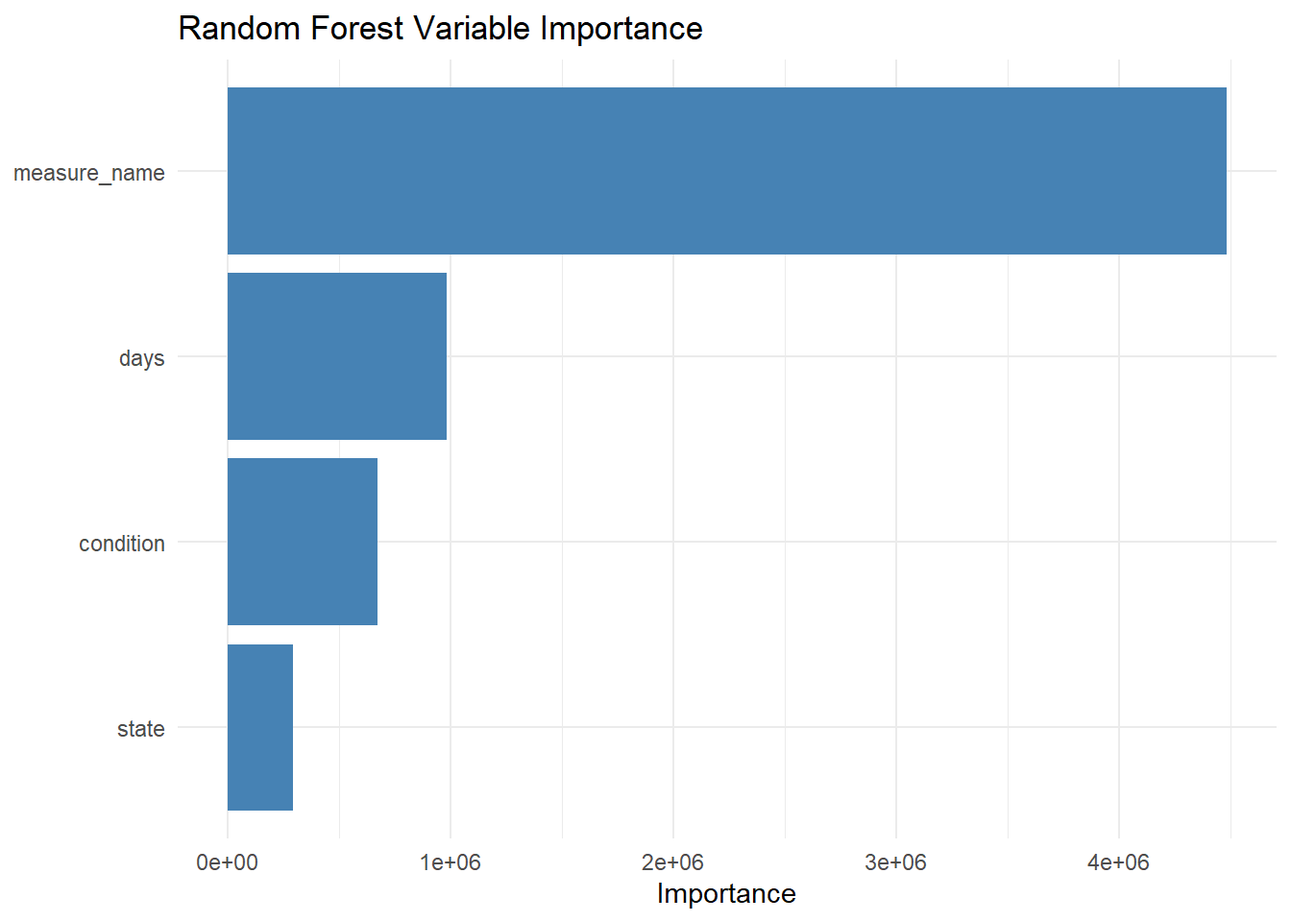
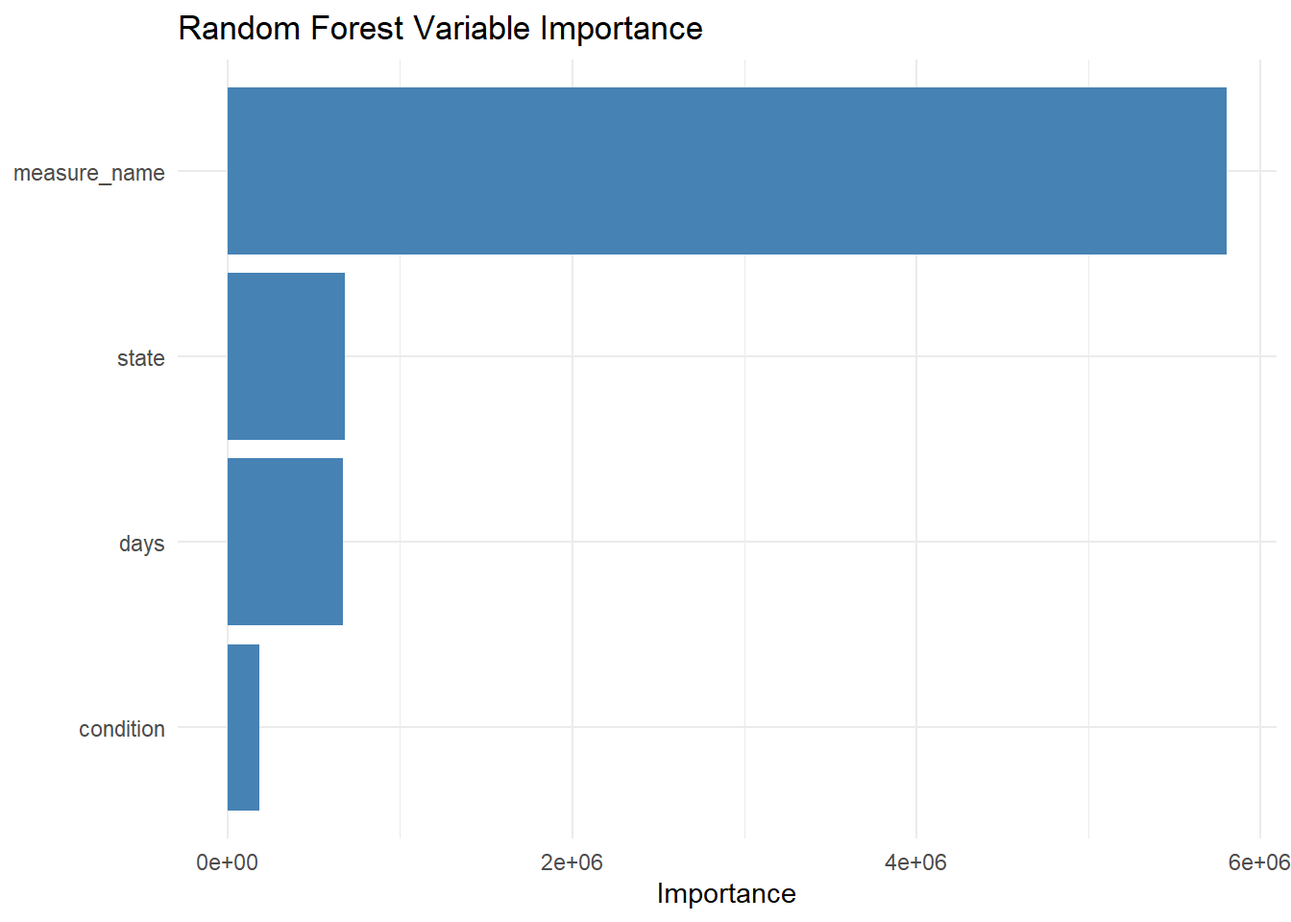
description

diff --git a/docs/tidytuesday-exercise/tidytuesday-exercise.html b/docs/tidytuesday-exercise/tidytuesday-exercise.html
@@ -268,10 +268,11 @@ date (2): start_date, end_date
 <h1 data-number="3"><span class="header-section-number">3</span> Exploratory Data Analysis</h1>
 <p>The dates look interesting, we might be able to use the duration from start to end as an information in our research. We will first look if there are multiple start dates and end dates or if all the dates are same.</p>
 <div class="cell">
-<div class="sourceCode cell-code" id="cb11"><pre class="sourceCode r code-with-copy"><code class="sourceCode r"><span id="cb11-1"><a href="#cb11-1" aria-hidden="true" tabindex="-1"></a>care_state <span class="sc">%&gt;%</span></span>
-<span id="cb11-2"><a href="#cb11-2" aria-hidden="true" tabindex="-1"></a>  <span class="fu">count</span>(start_date, <span class="at">name =</span> <span class="st">"frequency"</span>) <span class="sc">%&gt;%</span></span>
-<span id="cb11-3"><a href="#cb11-3" aria-hidden="true" tabindex="-1"></a>  <span class="fu">arrange</span>(<span class="fu">desc</span>(frequency)) <span class="sc">%&gt;%</span>  <span class="co"># Sort by most frequent</span></span>
-<span id="cb11-4"><a href="#cb11-4" aria-hidden="true" tabindex="-1"></a>  <span class="fu">print</span>(<span class="at">n =</span> <span class="cn">Inf</span>)  <span class="co"># Show all rows</span></span></code><button title="Copy to Clipboard" class="code-copy-button"><i class="bi"></i></button></pre></div>
+<div class="sourceCode cell-code" id="cb11"><pre class="sourceCode r code-with-copy"><code class="sourceCode r"><span id="cb11-1"><a href="#cb11-1" aria-hidden="true" tabindex="-1"></a><span class="co">#counting the occurrences of each start_date</span></span>
+<span id="cb11-2"><a href="#cb11-2" aria-hidden="true" tabindex="-1"></a>care_state <span class="sc">%&gt;%</span></span>
+<span id="cb11-3"><a href="#cb11-3" aria-hidden="true" tabindex="-1"></a>  <span class="fu">count</span>(start_date, <span class="at">name =</span> <span class="st">"frequency"</span>) <span class="sc">%&gt;%</span></span>
+<span id="cb11-4"><a href="#cb11-4" aria-hidden="true" tabindex="-1"></a>  <span class="fu">arrange</span>(<span class="fu">desc</span>(frequency)) <span class="sc">%&gt;%</span>  <span class="co"># sorting by most frequent</span></span>
+<span id="cb11-5"><a href="#cb11-5" aria-hidden="true" tabindex="-1"></a>  <span class="fu">print</span>(<span class="at">n =</span> <span class="cn">Inf</span>)  <span class="co">#showing all rows</span></span></code><button title="Copy to Clipboard" class="code-copy-button"><i class="bi"></i></button></pre></div>
 <div class="cell-output cell-output-stdout">
 <pre><code># A tibble: 4 × 2
   start_date frequency
@@ -282,13 +283,13 @@ date (2): start_date, end_date
 4 2024-01-01        56</code></pre>
 </div>
 </div>
-<p>We can observe that there are only four start dates.</p>
+<p>We can observe that there are only four start dates although some of them have very high frequency and some of them have a low frequency.</p>
 <div class="cell">
-<div class="sourceCode cell-code" id="cb13"><pre class="sourceCode r code-with-copy"><code class="sourceCode r"><span id="cb13-1"><a href="#cb13-1" aria-hidden="true" tabindex="-1"></a><span class="co"># Count occurrences of each end_date</span></span>
+<div class="sourceCode cell-code" id="cb13"><pre class="sourceCode r code-with-copy"><code class="sourceCode r"><span id="cb13-1"><a href="#cb13-1" aria-hidden="true" tabindex="-1"></a><span class="co">#counting the occurrences of each end_date</span></span>
 <span id="cb13-2"><a href="#cb13-2" aria-hidden="true" tabindex="-1"></a>care_state <span class="sc">%&gt;%</span></span>
 <span id="cb13-3"><a href="#cb13-3" aria-hidden="true" tabindex="-1"></a>  <span class="fu">count</span>(end_date, <span class="at">name =</span> <span class="st">"frequency"</span>) <span class="sc">%&gt;%</span></span>
-<span id="cb13-4"><a href="#cb13-4" aria-hidden="true" tabindex="-1"></a>  <span class="fu">arrange</span>(<span class="fu">desc</span>(frequency)) <span class="sc">%&gt;%</span>  <span class="co"># Sort by most frequent</span></span>
-<span id="cb13-5"><a href="#cb13-5" aria-hidden="true" tabindex="-1"></a>  <span class="fu">print</span>(<span class="at">n =</span> <span class="cn">Inf</span>)  <span class="co"># Show all rows</span></span></code><button title="Copy to Clipboard" class="code-copy-button"><i class="bi"></i></button></pre></div>
+<span id="cb13-4"><a href="#cb13-4" aria-hidden="true" tabindex="-1"></a>  <span class="fu">arrange</span>(<span class="fu">desc</span>(frequency)) <span class="sc">%&gt;%</span>  <span class="co">#sorting by most frequent</span></span>
+<span id="cb13-5"><a href="#cb13-5" aria-hidden="true" tabindex="-1"></a>  <span class="fu">print</span>(<span class="at">n =</span> <span class="cn">Inf</span>)  <span class="co">#showing all rows</span></span></code><button title="Copy to Clipboard" class="code-copy-button"><i class="bi"></i></button></pre></div>
 <div class="cell-output cell-output-stdout">
 <pre><code># A tibble: 2 × 2
   end_date   frequency
@@ -301,7 +302,7 @@ date (2): start_date, end_date
 <p>So there is not much information in this variables for exploration.</p>
 <section id="checking-the-most-frequent-condition-in-each-state" class="level2" data-number="3.1">
 <h2 data-number="3.1" class="anchored" data-anchor-id="checking-the-most-frequent-condition-in-each-state"><span class="header-section-number">3.1</span> Checking the most frequent condition in each state</h2>
-<p>Now we will see which of the condition is most frequent in each of the state.</p>
+<p>Now we will see which of the condition is most frequent in each of the state and if there is a pattern among the states.</p>
 <div class="cell">
 <div class="sourceCode cell-code" id="cb15"><pre class="sourceCode r code-with-copy"><code class="sourceCode r"><span id="cb15-1"><a href="#cb15-1" aria-hidden="true" tabindex="-1"></a><span class="fu">library</span>(tidyverse)</span></code><button title="Copy to Clipboard" class="code-copy-button"><i class="bi"></i></button></pre></div>
 <div class="cell-output cell-output-stderr">
@@ -322,14 +323,14 @@ date (2): start_date, end_date
 <div class="cell-output cell-output-stderr">
 <pre><code>Warning: package 'usmap' was built under R version 4.4.3</code></pre>
 </div>
-<div class="sourceCode cell-code" id="cb20"><pre class="sourceCode r code-with-copy"><code class="sourceCode r"><span id="cb20-1"><a href="#cb20-1" aria-hidden="true" tabindex="-1"></a><span class="co"># 1. Find most frequent condition per state</span></span>
+<div class="sourceCode cell-code" id="cb20"><pre class="sourceCode r code-with-copy"><code class="sourceCode r"><span id="cb20-1"><a href="#cb20-1" aria-hidden="true" tabindex="-1"></a><span class="co">#finding most frequent condition per state</span></span>
 <span id="cb20-2"><a href="#cb20-2" aria-hidden="true" tabindex="-1"></a>top_conditions <span class="ot">&lt;-</span> care_state <span class="sc">%&gt;%</span></span>
 <span id="cb20-3"><a href="#cb20-3" aria-hidden="true" tabindex="-1"></a>  <span class="fu">count</span>(state, condition) <span class="sc">%&gt;%</span></span>
 <span id="cb20-4"><a href="#cb20-4" aria-hidden="true" tabindex="-1"></a>  <span class="fu">group_by</span>(state) <span class="sc">%&gt;%</span></span>
 <span id="cb20-5"><a href="#cb20-5" aria-hidden="true" tabindex="-1"></a>  <span class="fu">slice_max</span>(n, <span class="at">n =</span> <span class="dv">1</span>) <span class="sc">%&gt;%</span></span>
 <span id="cb20-6"><a href="#cb20-6" aria-hidden="true" tabindex="-1"></a>  <span class="fu">ungroup</span>()</span>
 <span id="cb20-7"><a href="#cb20-7" aria-hidden="true" tabindex="-1"></a></span>
-<span id="cb20-8"><a href="#cb20-8" aria-hidden="true" tabindex="-1"></a><span class="co"># 2. Create basic map</span></span>
+<span id="cb20-8"><a href="#cb20-8" aria-hidden="true" tabindex="-1"></a><span class="co">#creating basic map</span></span>
 <span id="cb20-9"><a href="#cb20-9" aria-hidden="true" tabindex="-1"></a><span class="fu">plot_usmap</span>(<span class="at">data =</span> top_conditions, <span class="at">values =</span> <span class="st">"condition"</span>) <span class="sc">+</span></span>
 <span id="cb20-10"><a href="#cb20-10" aria-hidden="true" tabindex="-1"></a>  <span class="fu">scale_fill_brewer</span>(<span class="at">palette =</span> <span class="st">"Set2"</span>, </span>
 <span id="cb20-11"><a href="#cb20-11" aria-hidden="true" tabindex="-1"></a>                   <span class="at">name =</span> <span class="st">"Most Common Condition"</span>,</span>
@@ -350,14 +351,12 @@ date (2): start_date, end_date
 <h2 data-number="3.2" class="anchored" data-anchor-id="checking-the-frequencies-of-different-measures."><span class="header-section-number">3.2</span> Checking the frequencies of different measures.</h2>
 <p>Now, we will observe the freqency of different values under the variable <code>measure_name</code>.</p>
 <div class="cell">
-<div class="sourceCode cell-code" id="cb21"><pre class="sourceCode r code-with-copy"><code class="sourceCode r"><span id="cb21-1"><a href="#cb21-1" aria-hidden="true" tabindex="-1"></a><span class="fu">library</span>(tidyverse)</span>
-<span id="cb21-2"><a href="#cb21-2" aria-hidden="true" tabindex="-1"></a></span>
-<span id="cb21-3"><a href="#cb21-3" aria-hidden="true" tabindex="-1"></a><span class="co">#getting frequency counts for measure_name</span></span>
-<span id="cb21-4"><a href="#cb21-4" aria-hidden="true" tabindex="-1"></a>measure_counts <span class="ot">&lt;-</span> care_state <span class="sc">%&gt;%</span></span>
-<span id="cb21-5"><a href="#cb21-5" aria-hidden="true" tabindex="-1"></a>  <span class="fu">count</span>(measure_name, <span class="at">sort =</span> <span class="cn">TRUE</span>)  <span class="co"># sorting by most frequent</span></span>
-<span id="cb21-6"><a href="#cb21-6" aria-hidden="true" tabindex="-1"></a></span>
-<span id="cb21-7"><a href="#cb21-7" aria-hidden="true" tabindex="-1"></a><span class="co">#showing the full table</span></span>
-<span id="cb21-8"><a href="#cb21-8" aria-hidden="true" tabindex="-1"></a><span class="fu">print</span>(measure_counts, <span class="at">n =</span> <span class="cn">Inf</span>)  <span class="co">#n= all rows</span></span></code><button title="Copy to Clipboard" class="code-copy-button"><i class="bi"></i></button></pre></div>
+<div class="sourceCode cell-code" id="cb21"><pre class="sourceCode r code-with-copy"><code class="sourceCode r"><span id="cb21-1"><a href="#cb21-1" aria-hidden="true" tabindex="-1"></a><span class="co">#getting frequency counts for measure_name</span></span>
+<span id="cb21-2"><a href="#cb21-2" aria-hidden="true" tabindex="-1"></a>measure_counts <span class="ot">&lt;-</span> care_state <span class="sc">%&gt;%</span></span>
+<span id="cb21-3"><a href="#cb21-3" aria-hidden="true" tabindex="-1"></a>  <span class="fu">count</span>(measure_name, <span class="at">sort =</span> <span class="cn">TRUE</span>)  <span class="co">#sorting by most frequent</span></span>
+<span id="cb21-4"><a href="#cb21-4" aria-hidden="true" tabindex="-1"></a></span>
+<span id="cb21-5"><a href="#cb21-5" aria-hidden="true" tabindex="-1"></a><span class="co">#showing the full table</span></span>
+<span id="cb21-6"><a href="#cb21-6" aria-hidden="true" tabindex="-1"></a><span class="fu">print</span>(measure_counts, <span class="at">n =</span> <span class="cn">Inf</span>)  <span class="co">#n= all rows</span></span></code><button title="Copy to Clipboard" class="code-copy-button"><i class="bi"></i></button></pre></div>
 <div class="cell-output cell-output-stdout">
 <pre><code># A tibble: 21 × 2
    measure_name                                                                n
@@ -435,7 +434,7 @@ date (2): start_date, end_date
 </div>
 </div>
 </div>
-<p>We can observe that there is variation across states.</p>
+<p>We can observe that there is variation across states with central US states showing a low time spent in emergency department before being sent home.</p>
 </section>
 <section id="influenza-vaccination-rates-among-healthcare-workers-across-states." class="level2" data-number="3.4">
 <h2 data-number="3.4" class="anchored" data-anchor-id="influenza-vaccination-rates-among-healthcare-workers-across-states."><span class="header-section-number">3.4</span> Influenza Vaccination Rates Among Healthcare Workers across states.</h2>
@@ -459,7 +458,7 @@ date (2): start_date, end_date
 <span id="cb25-17"><a href="#cb25-17" aria-hidden="true" tabindex="-1"></a>    <span class="at">palette =</span> <span class="st">"Spectral"</span>,</span>
 <span id="cb25-18"><a href="#cb25-18" aria-hidden="true" tabindex="-1"></a>    <span class="at">direction =</span> <span class="sc">-</span><span class="dv">1</span>,  <span class="co"># Red = low, Green = high</span></span>
 <span id="cb25-19"><a href="#cb25-19" aria-hidden="true" tabindex="-1"></a>    <span class="at">na.value =</span> <span class="st">"grey90"</span>,</span>
-<span id="cb25-20"><a href="#cb25-20" aria-hidden="true" tabindex="-1"></a>    <span class="at">limits =</span> <span class="fu">c</span>(<span class="dv">0</span>, <span class="dv">100</span>)  <span class="co"># Force 0-100% scale</span></span>
+<span id="cb25-20"><a href="#cb25-20" aria-hidden="true" tabindex="-1"></a>    <span class="at">limits =</span> <span class="fu">c</span>(<span class="dv">0</span>, <span class="dv">100</span>)  <span class="co"># 0-100% scale</span></span>
 <span id="cb25-21"><a href="#cb25-21" aria-hidden="true" tabindex="-1"></a>  ) <span class="sc">+</span></span>
 <span id="cb25-22"><a href="#cb25-22" aria-hidden="true" tabindex="-1"></a>  <span class="fu">labs</span>(<span class="at">title =</span> <span class="st">"Influenza Vaccination Rates Among Healthcare Workers"</span>,</span>
 <span id="cb25-23"><a href="#cb25-23" aria-hidden="true" tabindex="-1"></a>       <span class="at">subtitle =</span> <span class="st">"Higher percentages indicate better coverage"</span>) <span class="sc">+</span></span>
@@ -482,19 +481,21 @@ date (2): start_date, end_date
 <div class="sourceCode cell-code" id="cb26"><pre class="sourceCode r code-with-copy"><code class="sourceCode r"><span id="cb26-1"><a href="#cb26-1" aria-hidden="true" tabindex="-1"></a>care_state <span class="ot">&lt;-</span> care_state <span class="sc">%&gt;%</span></span>
 <span id="cb26-2"><a href="#cb26-2" aria-hidden="true" tabindex="-1"></a>  <span class="fu">mutate</span>(<span class="at">days =</span> <span class="fu">as.numeric</span>(end_date <span class="sc">-</span> start_date))</span></code><button title="Copy to Clipboard" class="code-copy-button"><i class="bi"></i></button></pre></div>
 </div>
+<p>We have now created the dataset.</p>
+<p>Now, we will prepare the dataset for our analysis</p>
 <div class="cell">
 <div class="sourceCode cell-code" id="cb27"><pre class="sourceCode r code-with-copy"><code class="sourceCode r"><span id="cb27-1"><a href="#cb27-1" aria-hidden="true" tabindex="-1"></a><span class="co">#preparing the modeling dataset</span></span>
 <span id="cb27-2"><a href="#cb27-2" aria-hidden="true" tabindex="-1"></a>data <span class="ot">&lt;-</span> care_state <span class="sc">%&gt;%</span></span>
 <span id="cb27-3"><a href="#cb27-3" aria-hidden="true" tabindex="-1"></a>  <span class="fu">select</span>(score, days, state, condition, measure_name) <span class="sc">%&gt;%</span></span>
 <span id="cb27-4"><a href="#cb27-4" aria-hidden="true" tabindex="-1"></a>  <span class="fu">mutate</span>(</span>
-<span id="cb27-5"><a href="#cb27-5" aria-hidden="true" tabindex="-1"></a>    <span class="at">days =</span> <span class="fu">as.numeric</span>(days),  <span class="co"># Ensure numeric</span></span>
+<span id="cb27-5"><a href="#cb27-5" aria-hidden="true" tabindex="-1"></a>    <span class="at">days =</span> <span class="fu">as.numeric</span>(days),  <span class="co"># numeric</span></span>
 <span id="cb27-6"><a href="#cb27-6" aria-hidden="true" tabindex="-1"></a>    <span class="fu">across</span>(<span class="fu">c</span>(state, condition, measure_name), as.factor)  <span class="co">#converting categoricals to factors</span></span>
 <span id="cb27-7"><a href="#cb27-7" aria-hidden="true" tabindex="-1"></a>  ) <span class="sc">%&gt;%</span></span>
 <span id="cb27-8"><a href="#cb27-8" aria-hidden="true" tabindex="-1"></a>  <span class="fu">drop_na</span>()  <span class="co">#removing rows with missing values</span></span></code><button title="Copy to Clipboard" class="code-copy-button"><i class="bi"></i></button></pre></div>
 </div>
 <p>Splitting the data into train/train.</p>
 <div class="cell">
-<div class="sourceCode cell-code" id="cb28"><pre class="sourceCode r code-with-copy"><code class="sourceCode r"><span id="cb28-1"><a href="#cb28-1" aria-hidden="true" tabindex="-1"></a><span class="fu">library</span>(tidymodels)  <span class="co"># rsample for splitting</span></span></code><button title="Copy to Clipboard" class="code-copy-button"><i class="bi"></i></button></pre></div>
+<div class="sourceCode cell-code" id="cb28"><pre class="sourceCode r code-with-copy"><code class="sourceCode r"><span id="cb28-1"><a href="#cb28-1" aria-hidden="true" tabindex="-1"></a><span class="fu">library</span>(tidymodels)  <span class="co">#rsample for splitting</span></span></code><button title="Copy to Clipboard" class="code-copy-button"><i class="bi"></i></button></pre></div>
 <div class="cell-output cell-output-stderr">
 <pre><code>── Attaching packages ────────────────────────────────────── tidymodels 1.2.0 ──</code></pre>
 </div>
@@ -514,10 +515,10 @@ date (2): start_date, end_date
 ✖ dplyr::lag()      masks stats::lag()
 ✖ yardstick::spec() masks readr::spec()
 ✖ recipes::step()   masks stats::step()
-• Use tidymodels_prefer() to resolve common conflicts.</code></pre>
+• Learn how to get started at https://www.tidymodels.org/start/</code></pre>
 </div>
 <div class="sourceCode cell-code" id="cb32"><pre class="sourceCode r code-with-copy"><code class="sourceCode r"><span id="cb32-1"><a href="#cb32-1" aria-hidden="true" tabindex="-1"></a><span class="co">#performing the 75/25 split</span></span>
-<span id="cb32-2"><a href="#cb32-2" aria-hidden="true" tabindex="-1"></a><span class="fu">set.seed</span>(<span class="dv">123</span>)  <span class="co"># For reproducibility</span></span>
+<span id="cb32-2"><a href="#cb32-2" aria-hidden="true" tabindex="-1"></a><span class="fu">set.seed</span>(<span class="dv">123</span>)  <span class="co">#for reproducibility</span></span>
 <span id="cb32-3"><a href="#cb32-3" aria-hidden="true" tabindex="-1"></a>data_split <span class="ot">&lt;-</span> <span class="fu">initial_split</span>(data, <span class="at">prop =</span> <span class="dv">3</span><span class="sc">/</span><span class="dv">4</span>)</span>
 <span id="cb32-4"><a href="#cb32-4" aria-hidden="true" tabindex="-1"></a></span>
 <span id="cb32-5"><a href="#cb32-5" aria-hidden="true" tabindex="-1"></a><span class="co">#creating the training and train sets</span></span>
@@ -527,6 +528,7 @@ date (2): start_date, end_date
 <p>We will now use “days”, “state”, “condition”, “measure_name” to predict the “score”. We will use “Regression”, “Lasso” and “Random Forest” models in the next sections.</p>
 <section id="regression" class="level2" data-number="4.1">
 <h2 data-number="4.1" class="anchored" data-anchor-id="regression"><span class="header-section-number">4.1</span> Regression</h2>
+<p>In this setion, we will perform a linear reression analysis. Although it is not a good idea to use variables with too many categories, but in this dataset the variables are too complex to categorize into smaller groups, so will proceed as it is.</p>
 <div class="cell">
 <div class="sourceCode cell-code" id="cb33"><pre class="sourceCode r code-with-copy"><code class="sourceCode r"><span id="cb33-1"><a href="#cb33-1" aria-hidden="true" tabindex="-1"></a><span class="fu">library</span>(tidymodels)</span>
 <span id="cb33-2"><a href="#cb33-2" aria-hidden="true" tabindex="-1"></a></span>
@@ -593,9 +595,13 @@ rankdeficient="NA")</code></pre>
 </div>
 </div>
 </div>
+<p>We can observe that the RMSE value is 34.9 and the adjusted-R-square value is 0.876. The observed-predicted plot also shows a good fit for the datapoints.</p>
+</section>
+<section id="lasso-regression" class="level2" data-number="4.2">
+<h2 data-number="4.2" class="anchored" data-anchor-id="lasso-regression"><span class="header-section-number">4.2</span> LASSO regression</h2>
 <div class="cell">
 <div class="sourceCode cell-code" id="cb40"><pre class="sourceCode r code-with-copy"><code class="sourceCode r"><span id="cb40-1"><a href="#cb40-1" aria-hidden="true" tabindex="-1"></a><span class="fu">library</span>(tidymodels)</span>
-<span id="cb40-2"><a href="#cb40-2" aria-hidden="true" tabindex="-1"></a><span class="fu">library</span>(glmnet)  <span class="co"># Lasso implementation</span></span></code><button title="Copy to Clipboard" class="code-copy-button"><i class="bi"></i></button></pre></div>
+<span id="cb40-2"><a href="#cb40-2" aria-hidden="true" tabindex="-1"></a><span class="fu">library</span>(glmnet)  <span class="co">#Lasso implementation</span></span></code><button title="Copy to Clipboard" class="code-copy-button"><i class="bi"></i></button></pre></div>
 <div class="cell-output cell-output-stderr">
 <pre><code>Warning: package 'glmnet' was built under R version 4.4.3</code></pre>
 </div>
@@ -619,8 +625,8 @@ Attaching package: 'Matrix'</code></pre>
 </div>
 <div class="sourceCode cell-code" id="cb47"><pre class="sourceCode r code-with-copy"><code class="sourceCode r"><span id="cb47-1"><a href="#cb47-1" aria-hidden="true" tabindex="-1"></a><span class="co">#setting up Lasso model specification</span></span>
 <span id="cb47-2"><a href="#cb47-2" aria-hidden="true" tabindex="-1"></a>lasso_spec <span class="ot">&lt;-</span> <span class="fu">linear_reg</span>(</span>
-<span id="cb47-3"><a href="#cb47-3" aria-hidden="true" tabindex="-1"></a>  <span class="at">penalty =</span> <span class="fl">0.1</span>,  <span class="co"># Regularization strength </span></span>
-<span id="cb47-4"><a href="#cb47-4" aria-hidden="true" tabindex="-1"></a>  <span class="at">mixture =</span> <span class="dv">1</span>     <span class="co"># 1 = Lasso, 0 = Ridge</span></span>
+<span id="cb47-3"><a href="#cb47-3" aria-hidden="true" tabindex="-1"></a>  <span class="at">penalty =</span> <span class="fl">0.1</span>,  <span class="co">#Regularization strength </span></span>
+<span id="cb47-4"><a href="#cb47-4" aria-hidden="true" tabindex="-1"></a>  <span class="at">mixture =</span> <span class="dv">1</span>     <span class="co"># 1 = Lasso</span></span>
 <span id="cb47-5"><a href="#cb47-5" aria-hidden="true" tabindex="-1"></a>) <span class="sc">%&gt;%</span> </span>
 <span id="cb47-6"><a href="#cb47-6" aria-hidden="true" tabindex="-1"></a>  <span class="fu">set_engine</span>(<span class="st">"glmnet"</span>)</span>
 <span id="cb47-7"><a href="#cb47-7" aria-hidden="true" tabindex="-1"></a></span>
@@ -688,13 +694,17 @@ Attaching package: 'Matrix'</code></pre>
 </div>
 </div>
 </div>
+<p>We can observe a RMSE value of 35, which is smaller than what we observed for the OLS model. The R-squared value is 0.875 which is quite simillar to the regression model. The observed-predicted plot also shows a good fit as observed for the regression model.</p>
+</section>
+<section id="random-forest" class="level2" data-number="4.3">
+<h2 data-number="4.3" class="anchored" data-anchor-id="random-forest"><span class="header-section-number">4.3</span> Random Forest</h2>
 <div class="cell">
 <div class="sourceCode cell-code" id="cb54"><pre class="sourceCode r code-with-copy"><code class="sourceCode r"><span id="cb54-1"><a href="#cb54-1" aria-hidden="true" tabindex="-1"></a><span class="fu">library</span>(tidymodels)</span>
 <span id="cb54-2"><a href="#cb54-2" aria-hidden="true" tabindex="-1"></a><span class="fu">library</span>(ranger)  <span class="co">#  random forest</span></span>
 <span id="cb54-3"><a href="#cb54-3" aria-hidden="true" tabindex="-1"></a></span>
 <span id="cb54-4"><a href="#cb54-4" aria-hidden="true" tabindex="-1"></a><span class="co">#setting up and fit Random Forest</span></span>
 <span id="cb54-5"><a href="#cb54-5" aria-hidden="true" tabindex="-1"></a>rf_spec <span class="ot">&lt;-</span> <span class="fu">rand_forest</span>(</span>
-<span id="cb54-6"><a href="#cb54-6" aria-hidden="true" tabindex="-1"></a>  <span class="at">mtry =</span> <span class="fu">floor</span>(<span class="fu">sqrt</span>(<span class="fu">ncol</span>(train_data))),  <span class="co"># sqrt of predictors</span></span>
+<span id="cb54-6"><a href="#cb54-6" aria-hidden="true" tabindex="-1"></a>  <span class="at">mtry =</span> <span class="dv">3</span>,  <span class="co">#</span></span>
 <span id="cb54-7"><a href="#cb54-7" aria-hidden="true" tabindex="-1"></a>  <span class="at">trees =</span> <span class="dv">500</span>,</span>
 <span id="cb54-8"><a href="#cb54-8" aria-hidden="true" tabindex="-1"></a>  <span class="at">min_n =</span> <span class="dv">5</span></span>
 <span id="cb54-9"><a href="#cb54-9" aria-hidden="true" tabindex="-1"></a>) <span class="sc">%&gt;%</span> </span>
@@ -724,6 +734,9 @@ Attaching package: 'Matrix'</code></pre>
 </figure>
 </div>
 </div>
+</div>
+<p>The random forest model shows a relatively high importance for measure_name, which makes sense.</p>
+<div class="cell">
 <div class="sourceCode cell-code" id="cb55"><pre class="sourceCode r code-with-copy"><code class="sourceCode r"><span id="cb55-1"><a href="#cb55-1" aria-hidden="true" tabindex="-1"></a><span class="co">#making predictions and evaluate</span></span>
 <span id="cb55-2"><a href="#cb55-2" aria-hidden="true" tabindex="-1"></a>rf_results <span class="ot">&lt;-</span> train_data <span class="sc">%&gt;%</span> </span>
 <span id="cb55-3"><a href="#cb55-3" aria-hidden="true" tabindex="-1"></a>  <span class="fu">bind_cols</span>(<span class="fu">predict</span>(rf_fit, <span class="at">new_data =</span> train_data))</span>
@@ -746,8 +759,11 @@ Attaching package: 'Matrix'</code></pre>
   &lt;chr&gt;         &lt;dbl&gt; &lt;dbl&gt; &lt;dbl&gt;
 1 linear_reg     34.9 0.876  21.9
 2 lasso          35.0 0.875  21.7
-3 random_forest  38.2 0.856  20.1</code></pre>
+3 random_forest  27.1 0.927  14.1</code></pre>
 </div>
+</div>
+<p>We can observe that the RMSE of a random forest model is 27.06 while the R-square is 0.927. If we compare the three models, the Random Forest model has the lowest RMSE and the highest R-squared value. Thus RF performs the best.</p>
+<div class="cell">
 <div class="sourceCode cell-code" id="cb57"><pre class="sourceCode r code-with-copy"><code class="sourceCode r"><span id="cb57-1"><a href="#cb57-1" aria-hidden="true" tabindex="-1"></a><span class="co"># Observed vs Predicted plot</span></span>
 <span id="cb57-2"><a href="#cb57-2" aria-hidden="true" tabindex="-1"></a><span class="fu">ggplot</span>(rf_results, <span class="fu">aes</span>(<span class="at">x =</span> score, <span class="at">y =</span> .pred)) <span class="sc">+</span></span>
 <span id="cb57-3"><a href="#cb57-3" aria-hidden="true" tabindex="-1"></a>  <span class="fu">geom_point</span>(<span class="at">alpha =</span> <span class="fl">0.6</span>, <span class="at">color =</span> <span class="st">"darkgreen"</span>) <span class="sc">+</span></span>
@@ -758,15 +774,17 @@ Attaching package: 'Matrix'</code></pre>
 <div class="cell-output-display">
 <div>
 <figure class="figure">
-<p><img src="tidytuesday-exercise_files/figure-html/unnamed-chunk-16-2.png" class="img-fluid figure-img" width="672"></p>
+<p><img src="tidytuesday-exercise_files/figure-html/unnamed-chunk-18-1.png" class="img-fluid figure-img" width="672"></p>
 </figure>
 </div>
 </div>
 </div>
+<p>We can observe that the random forest model shows a very closer difference between the observed and the predicted. Hence, it is a better model.</p>
 </section>
 </section>
 <section id="cv-approach" class="level1" data-number="5">
 <h1 data-number="5"><span class="header-section-number">5</span> CV approach</h1>
+<p>we will now use a Cross-validation approach to test our results.</p>
 <div class="cell">
 <div class="sourceCode cell-code" id="cb58"><pre class="sourceCode r code-with-copy"><code class="sourceCode r"><span id="cb58-1"><a href="#cb58-1" aria-hidden="true" tabindex="-1"></a><span class="co">#creating CV folds from training data (10-fold by default)</span></span>
 <span id="cb58-2"><a href="#cb58-2" aria-hidden="true" tabindex="-1"></a><span class="fu">set.seed</span>(<span class="dv">123</span>)</span>
@@ -788,7 +806,7 @@ Attaching package: 'Matrix'</code></pre>
 <span id="cb58-18"><a href="#cb58-18" aria-hidden="true" tabindex="-1"></a>  <span class="fu">set_engine</span>(<span class="st">"glmnet"</span>)</span>
 <span id="cb58-19"><a href="#cb58-19" aria-hidden="true" tabindex="-1"></a></span>
 <span id="cb58-20"><a href="#cb58-20" aria-hidden="true" tabindex="-1"></a><span class="co"># Random Forest</span></span>
-<span id="cb58-21"><a href="#cb58-21" aria-hidden="true" tabindex="-1"></a>rf_spec <span class="ot">&lt;-</span> <span class="fu">rand_forest</span>(<span class="at">mtry =</span> <span class="dv">3</span>, <span class="at">trees =</span> <span class="dv">500</span>) <span class="sc">%&gt;%</span> </span>
+<span id="cb58-21"><a href="#cb58-21" aria-hidden="true" tabindex="-1"></a>rf_spec <span class="ot">&lt;-</span> <span class="fu">rand_forest</span>(<span class="at">mtry =</span> <span class="dv">3</span>, <span class="at">trees =</span> <span class="dv">500</span>, <span class="at">min_n =</span> <span class="dv">5</span>) <span class="sc">%&gt;%</span> </span>
 <span id="cb58-22"><a href="#cb58-22" aria-hidden="true" tabindex="-1"></a>  <span class="fu">set_engine</span>(<span class="st">"ranger"</span>) <span class="sc">%&gt;%</span> </span>
 <span id="cb58-23"><a href="#cb58-23" aria-hidden="true" tabindex="-1"></a>  <span class="fu">set_mode</span>(<span class="st">"regression"</span>)</span>
 <span id="cb58-24"><a href="#cb58-24" aria-hidden="true" tabindex="-1"></a></span>
@@ -852,7 +870,7 @@ There were issues with some computations   A: x2
 There were issues with some computations   A: x5</code></pre>
 </div>
 </div>
-<p>Compare Model Performance —-</p>
+<p>Comparing Model Performance —-</p>
 <div class="cell">
 <div class="sourceCode cell-code" id="cb67"><pre class="sourceCode r code-with-copy"><code class="sourceCode r"><span id="cb67-1"><a href="#cb67-1" aria-hidden="true" tabindex="-1"></a><span class="fu">collect_metrics</span>(lm_res)</span></code><button title="Copy to Clipboard" class="code-copy-button"><i class="bi"></i></button></pre></div>
 <div class="cell-output cell-output-stdout">
@@ -864,6 +882,7 @@ There were issues with some computations   A: x5</code></pre>
 3 rsq     standard    0.848     5  0.0184 Preprocessor1_Model1</code></pre>
 </div>
 </div>
+<p>We can observe that the RMSE values for the Linear regressions are quite consistent and show a comparitively low standard deviation. These RMSE values are also quite similar to the ones we obtained in our whole train dataset which was 34.9</p>
 <div class="cell">
 <div class="sourceCode cell-code" id="cb69"><pre class="sourceCode r code-with-copy"><code class="sourceCode r"><span id="cb69-1"><a href="#cb69-1" aria-hidden="true" tabindex="-1"></a><span class="fu">collect_metrics</span>(lasso_res)</span></code><button title="Copy to Clipboard" class="code-copy-button"><i class="bi"></i></button></pre></div>
 <div class="cell-output cell-output-stdout">
@@ -875,6 +894,7 @@ There were issues with some computations   A: x5</code></pre>
 3 rsq     standard    0.848     5  0.0186 Preprocessor1_Model1</code></pre>
 </div>
 </div>
+<p>We can observe that the RMSE values for the LASSO regressions are also quite consistent and show a comparitively low standard deviation. These RMSE values are also quite similar to the ones we obtained in our whole train dataset which was 35. The R-squared values are also quite similar to our previous value.</p>
 <div class="cell">
 <div class="sourceCode cell-code" id="cb71"><pre class="sourceCode r code-with-copy"><code class="sourceCode r"><span id="cb71-1"><a href="#cb71-1" aria-hidden="true" tabindex="-1"></a><span class="fu">collect_metrics</span>(rf_res)</span></code><button title="Copy to Clipboard" class="code-copy-button"><i class="bi"></i></button></pre></div>
 <div class="cell-output cell-output-stdout">
@@ -886,10 +906,12 @@ There were issues with some computations   A: x5</code></pre>
 3 rsq     standard    0.780     5  0.0165 Preprocessor1_Model1</code></pre>
 </div>
 </div>
+<p>In the case of the Random Forest model, we can observe that there is a very high increase in the RMSE value, almost the double of the previous value. This implies that the model performance of our Random forest model in the whole train dataset can not be trusted. We will now see if this pattern of inconsistency also exists in the test dataset or not.</p>
 </section>
 <section id="test-dataset" class="level1" data-number="6">
 <h1 data-number="6"><span class="header-section-number">6</span> Test dataset</h1>
-<p>Regression Test</p>
+<section id="regression-test-dataset" class="level2" data-number="6.1">
+<h2 data-number="6.1" class="anchored" data-anchor-id="regression-test-dataset"><span class="header-section-number">6.1</span> Regression (Test dataset)</h2>
 <div class="cell">
 <div class="sourceCode cell-code" id="cb73"><pre class="sourceCode r code-with-copy"><code class="sourceCode r"><span id="cb73-1"><a href="#cb73-1" aria-hidden="true" tabindex="-1"></a><span class="co">#making predictions on test data</span></span>
 <span id="cb73-2"><a href="#cb73-2" aria-hidden="true" tabindex="-1"></a>test_results <span class="ot">&lt;-</span> test_data <span class="sc">%&gt;%</span> </span>
@@ -913,6 +935,9 @@ rankdeficient="NA")</code></pre>
 2 rsq     standard       0.820
 3 mae     standard      26.9  </code></pre>
 </div>
+</div>
+<p>We can observe that the RMSE value for the linear regression has increased by almost 50% but the R-square value is somewhat consistent with the train results.</p>
+<div class="cell">
 <div class="sourceCode cell-code" id="cb77"><pre class="sourceCode r code-with-copy"><code class="sourceCode r"><span id="cb77-1"><a href="#cb77-1" aria-hidden="true" tabindex="-1"></a><span class="co"># Observed vs Predicted plot</span></span>
 <span id="cb77-2"><a href="#cb77-2" aria-hidden="true" tabindex="-1"></a><span class="fu">ggplot</span>(test_results, <span class="fu">aes</span>(<span class="at">x =</span> score, <span class="at">y =</span> .pred)) <span class="sc">+</span></span>
 <span id="cb77-3"><a href="#cb77-3" aria-hidden="true" tabindex="-1"></a>  <span class="fu">geom_point</span>(<span class="at">alpha =</span> <span class="fl">0.5</span>) <span class="sc">+</span></span>
@@ -924,22 +949,26 @@ rankdeficient="NA")</code></pre>
 <div class="cell-output-display">
 <div>
 <figure class="figure">
-<p><img src="tidytuesday-exercise_files/figure-html/unnamed-chunk-21-1.png" class="img-fluid figure-img" width="672"></p>
+<p><img src="tidytuesday-exercise_files/figure-html/unnamed-chunk-24-1.png" class="img-fluid figure-img" width="672"></p>
 </figure>
 </div>
 </div>
 </div>
-<p>LASSO TEST</p>
+<p>The predicted-observed plot shows a good fit for the datapoints.</p>
+</section>
+<section id="lasso-test-dataset" class="level2" data-number="6.2">
+<h2 data-number="6.2" class="anchored" data-anchor-id="lasso-test-dataset"><span class="header-section-number">6.2</span> LASSO (TEST dataset)</h2>
+<p>Now, we will perfom the LASSO regression on the test dataset.</p>
 <div class="cell">
-<div class="sourceCode cell-code" id="cb78"><pre class="sourceCode r code-with-copy"><code class="sourceCode r"><span id="cb78-1"><a href="#cb78-1" aria-hidden="true" tabindex="-1"></a><span class="co">#  predictions</span></span>
+<div class="sourceCode cell-code" id="cb78"><pre class="sourceCode r code-with-copy"><code class="sourceCode r"><span id="cb78-1"><a href="#cb78-1" aria-hidden="true" tabindex="-1"></a><span class="co">#predictions</span></span>
 <span id="cb78-2"><a href="#cb78-2" aria-hidden="true" tabindex="-1"></a>test_results <span class="ot">&lt;-</span> test_data <span class="sc">%&gt;%</span> </span>
 <span id="cb78-3"><a href="#cb78-3" aria-hidden="true" tabindex="-1"></a>  <span class="fu">bind_cols</span>(<span class="fu">predict</span>(lasso_fit, <span class="at">new_data =</span> test_data))</span>
 <span id="cb78-4"><a href="#cb78-4" aria-hidden="true" tabindex="-1"></a></span>
-<span id="cb78-5"><a href="#cb78-5" aria-hidden="true" tabindex="-1"></a><span class="co">#  performance</span></span>
+<span id="cb78-5"><a href="#cb78-5" aria-hidden="true" tabindex="-1"></a><span class="co">#performance</span></span>
 <span id="cb78-6"><a href="#cb78-6" aria-hidden="true" tabindex="-1"></a>lasso_metrics_test <span class="ot">&lt;-</span> test_results <span class="sc">%&gt;%</span> </span>
 <span id="cb78-7"><a href="#cb78-7" aria-hidden="true" tabindex="-1"></a>  <span class="fu">metrics</span>(<span class="at">truth =</span> score, <span class="at">estimate =</span> .pred)</span>
 <span id="cb78-8"><a href="#cb78-8" aria-hidden="true" tabindex="-1"></a></span>
-<span id="cb78-9"><a href="#cb78-9" aria-hidden="true" tabindex="-1"></a><span class="co"># print performance</span></span>
+<span id="cb78-9"><a href="#cb78-9" aria-hidden="true" tabindex="-1"></a><span class="co">#print performance</span></span>
 <span id="cb78-10"><a href="#cb78-10" aria-hidden="true" tabindex="-1"></a><span class="fu">cat</span>(<span class="st">"Lasso Performance (Test data):</span><span class="sc">\n</span><span class="st">"</span>)</span></code><button title="Copy to Clipboard" class="code-copy-button"><i class="bi"></i></button></pre></div>
 <div class="cell-output cell-output-stdout">
 <pre><code>Lasso Performance (Test data):</code></pre>
@@ -953,6 +982,9 @@ rankdeficient="NA")</code></pre>
 2 rsq     standard       0.819
 3 mae     standard      26.8  </code></pre>
 </div>
+</div>
+<p>The LASSO regression also shows an almost 50% increase in RMSE values however the RMSE values are slightly greater than the Linear regression model although the difference is very small almost dismissable.</p>
+<div class="cell">
 <div class="sourceCode cell-code" id="cb82"><pre class="sourceCode r code-with-copy"><code class="sourceCode r"><span id="cb82-1"><a href="#cb82-1" aria-hidden="true" tabindex="-1"></a><span class="co"># Observed vs Predicted plot</span></span>
 <span id="cb82-2"><a href="#cb82-2" aria-hidden="true" tabindex="-1"></a><span class="fu">ggplot</span>(test_results, <span class="fu">aes</span>(<span class="at">x =</span> score, <span class="at">y =</span> .pred)) <span class="sc">+</span></span>
 <span id="cb82-3"><a href="#cb82-3" aria-hidden="true" tabindex="-1"></a>  <span class="fu">geom_point</span>(<span class="at">alpha =</span> <span class="fl">0.5</span>, <span class="at">color =</span> <span class="st">"darkorange"</span>) <span class="sc">+</span></span>
@@ -965,11 +997,15 @@ rankdeficient="NA")</code></pre>
 <div class="cell-output-display">
 <div>
 <figure class="figure">
-<p><img src="tidytuesday-exercise_files/figure-html/unnamed-chunk-22-1.png" class="img-fluid figure-img" width="672"></p>
+<p><img src="tidytuesday-exercise_files/figure-html/unnamed-chunk-26-1.png" class="img-fluid figure-img" width="672"></p>
 </figure>
 </div>
 </div>
 </div>
+<p>We can observe that the predicted-observed plot show a good fit for the datapoints.</p>
+</section>
+<section id="random-forest-test-dataset" class="level2" data-number="6.3">
+<h2 data-number="6.3" class="anchored" data-anchor-id="random-forest-test-dataset"><span class="header-section-number">6.3</span> Random Forest (Test dataset)</h2>
 <div class="cell">
 <div class="sourceCode cell-code" id="cb83"><pre class="sourceCode r code-with-copy"><code class="sourceCode r"><span id="cb83-1"><a href="#cb83-1" aria-hidden="true" tabindex="-1"></a><span class="co">#  predictions </span></span>
 <span id="cb83-2"><a href="#cb83-2" aria-hidden="true" tabindex="-1"></a>rf_results_test <span class="ot">&lt;-</span> test_data <span class="sc">%&gt;%</span> </span>
@@ -978,7 +1014,7 @@ rankdeficient="NA")</code></pre>
 <span id="cb83-5"><a href="#cb83-5" aria-hidden="true" tabindex="-1"></a>rf_metrics_test <span class="ot">&lt;-</span> rf_results_test <span class="sc">%&gt;%</span> </span>
 <span id="cb83-6"><a href="#cb83-6" aria-hidden="true" tabindex="-1"></a>  <span class="fu">metrics</span>(<span class="at">truth =</span> score, <span class="at">estimate =</span> .pred)</span>
 <span id="cb83-7"><a href="#cb83-7" aria-hidden="true" tabindex="-1"></a></span>
-<span id="cb83-8"><a href="#cb83-8" aria-hidden="true" tabindex="-1"></a><span class="co"># Comparing all three models</span></span>
+<span id="cb83-8"><a href="#cb83-8" aria-hidden="true" tabindex="-1"></a><span class="co">#comparing all three models</span></span>
 <span id="cb83-9"><a href="#cb83-9" aria-hidden="true" tabindex="-1"></a><span class="fu">bind_rows</span>(</span>
 <span id="cb83-10"><a href="#cb83-10" aria-hidden="true" tabindex="-1"></a>  <span class="at">linear_reg =</span> test_metrics,</span>
 <span id="cb83-11"><a href="#cb83-11" aria-hidden="true" tabindex="-1"></a>  <span class="at">lasso =</span> lasso_metrics_test,</span>
@@ -993,8 +1029,11 @@ rankdeficient="NA")</code></pre>
   &lt;chr&gt;         &lt;dbl&gt; &lt;dbl&gt; &lt;dbl&gt;
 1 linear_reg     46.7 0.820  26.9
 2 lasso          46.9 0.819  26.8
-3 random_forest  55.1 0.761  29.0</code></pre>
+3 random_forest  52.3 0.777  24.8</code></pre>
 </div>
+</div>
+<p>We can observe that the RMSE value for the random forest is even bigger, increasing by almost 100%, the R-squared value has also decreased.</p>
+<div class="cell">
 <div class="sourceCode cell-code" id="cb85"><pre class="sourceCode r code-with-copy"><code class="sourceCode r"><span id="cb85-1"><a href="#cb85-1" aria-hidden="true" tabindex="-1"></a><span class="co"># Observed vs Predicted plot</span></span>
 <span id="cb85-2"><a href="#cb85-2" aria-hidden="true" tabindex="-1"></a><span class="fu">ggplot</span>(rf_results_test, <span class="fu">aes</span>(<span class="at">x =</span> score, <span class="at">y =</span> .pred)) <span class="sc">+</span></span>
 <span id="cb85-3"><a href="#cb85-3" aria-hidden="true" tabindex="-1"></a>  <span class="fu">geom_point</span>(<span class="at">alpha =</span> <span class="fl">0.6</span>, <span class="at">color =</span> <span class="st">"darkgreen"</span>) <span class="sc">+</span></span>
@@ -1005,11 +1044,17 @@ rankdeficient="NA")</code></pre>
 <div class="cell-output-display">
 <div>
 <figure class="figure">
-<p><img src="tidytuesday-exercise_files/figure-html/unnamed-chunk-23-1.png" class="img-fluid figure-img" width="672"></p>
+<p><img src="tidytuesday-exercise_files/figure-html/unnamed-chunk-28-1.png" class="img-fluid figure-img" width="672"></p>
 </figure>
 </div>
 </div>
 </div>
+<p>We can observe that the random model also shows agood fit for the datapoints.</p>
+</section>
+</section>
+<section id="conclusion" class="level1" data-number="7">
+<h1 data-number="7"><span class="header-section-number">7</span> Conclusion</h1>
+<p>Based on the results we can conclude that the both the Linear regression model and the LASSO model show a very similar result and can be considered same. Although the Random Forest model showed a better performance in the train model, the CV results and the results from the test dataset speaks against the RF model. Therefore, we will conclude that Linear regression is a better model although the LASSO also shows an equally competititive result.</p>
 
 
 </section>
